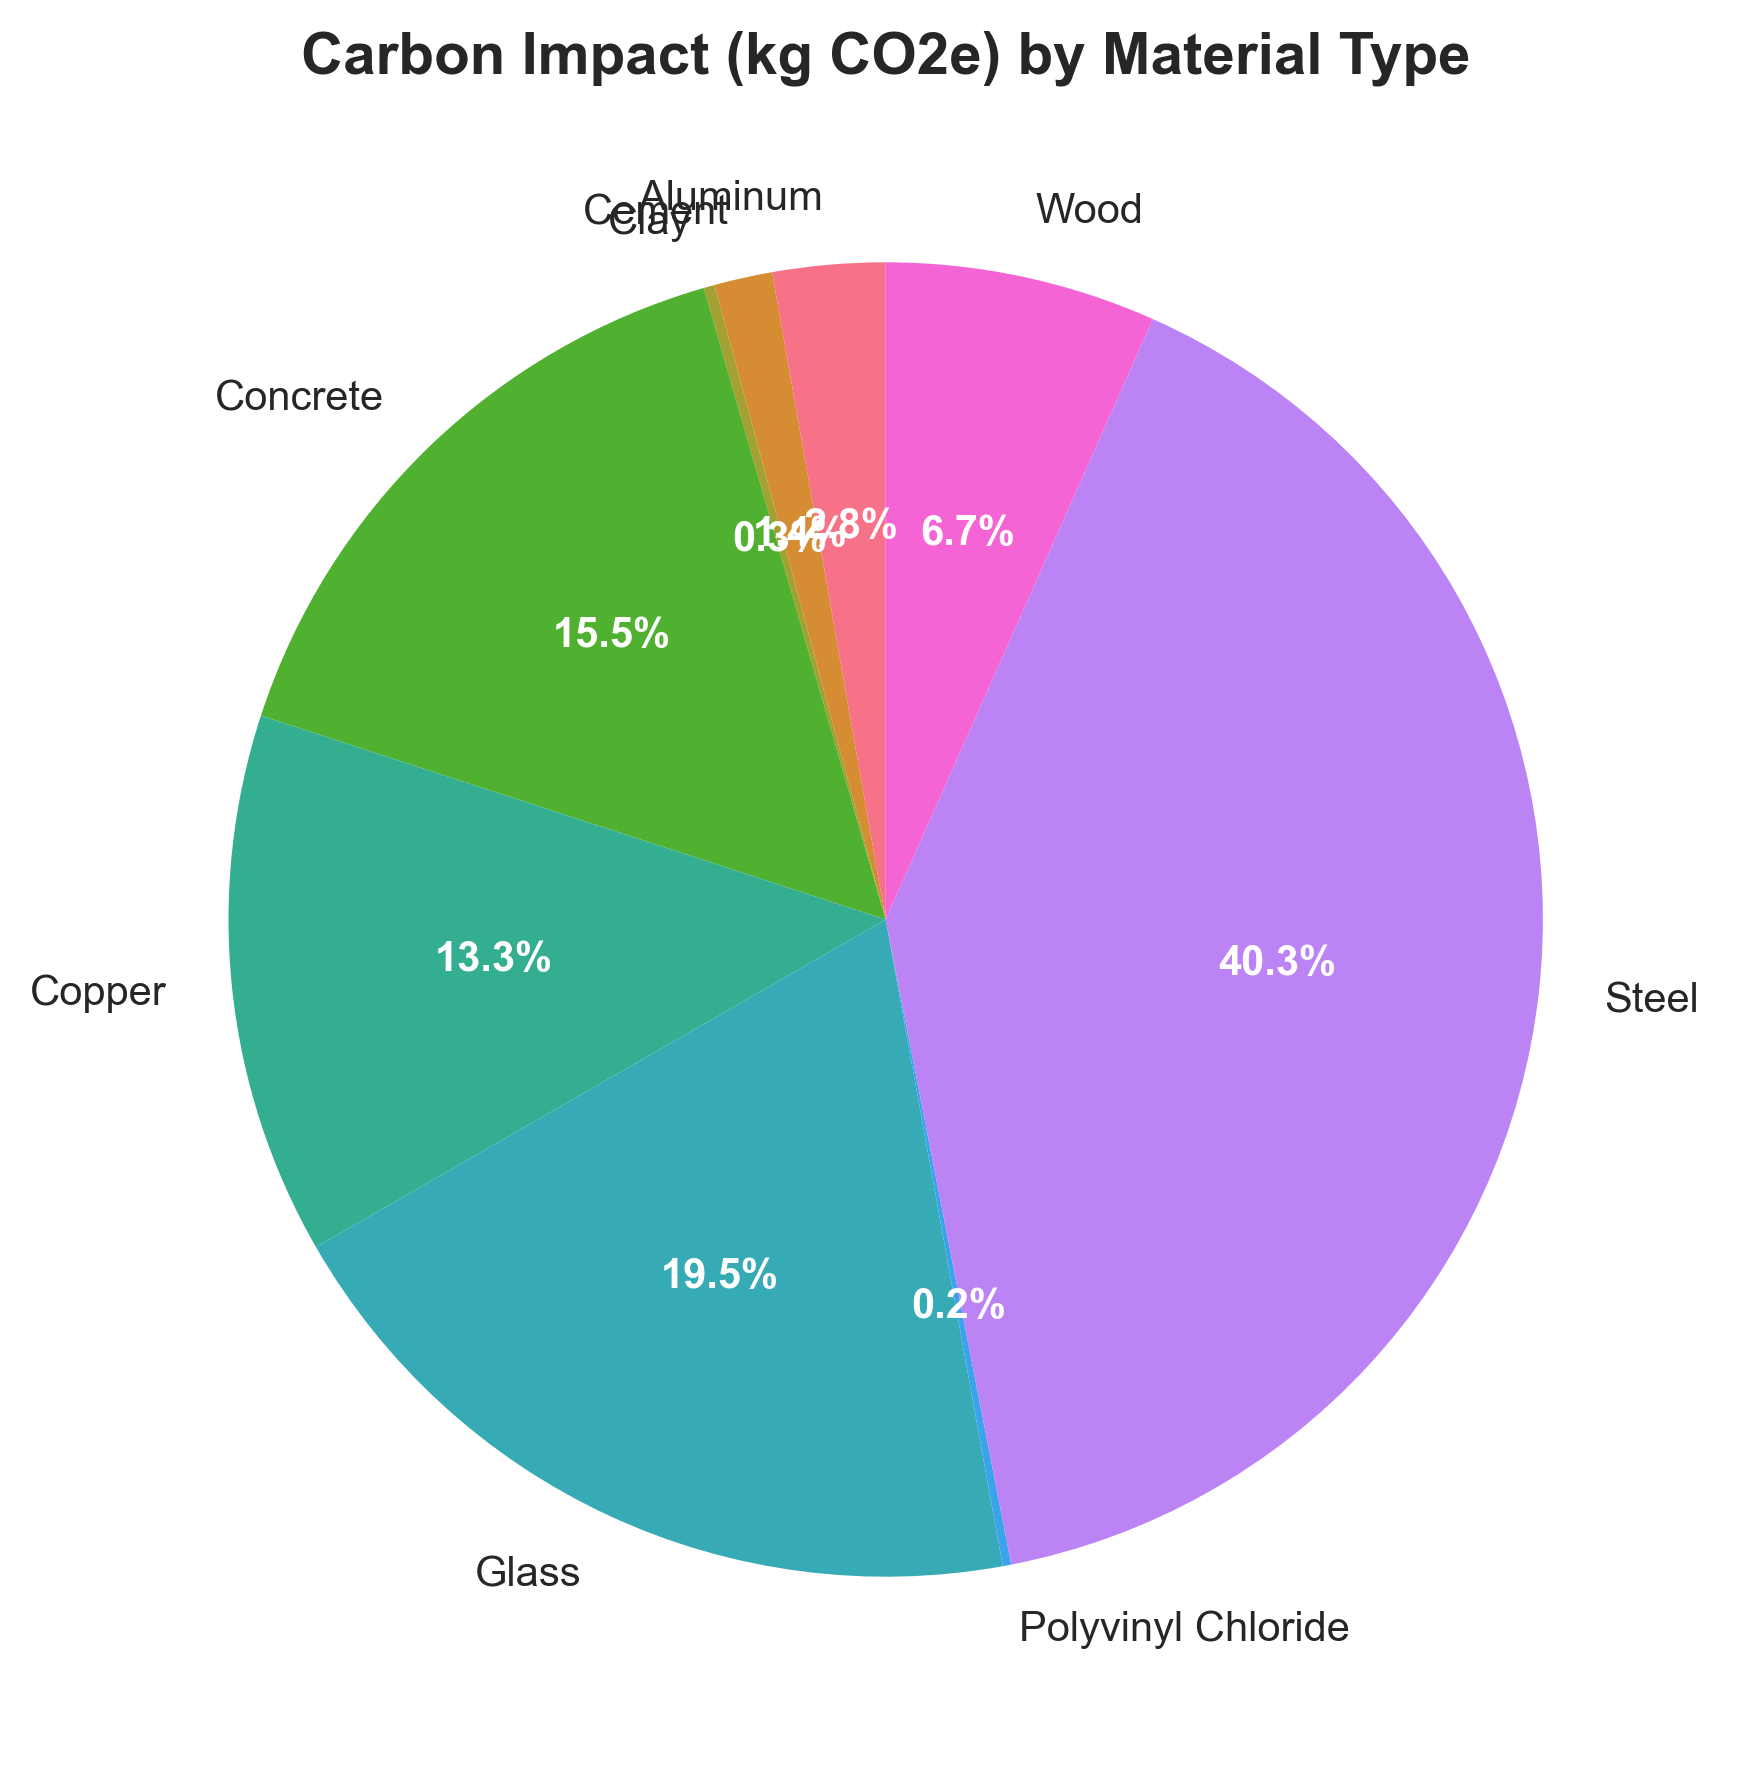
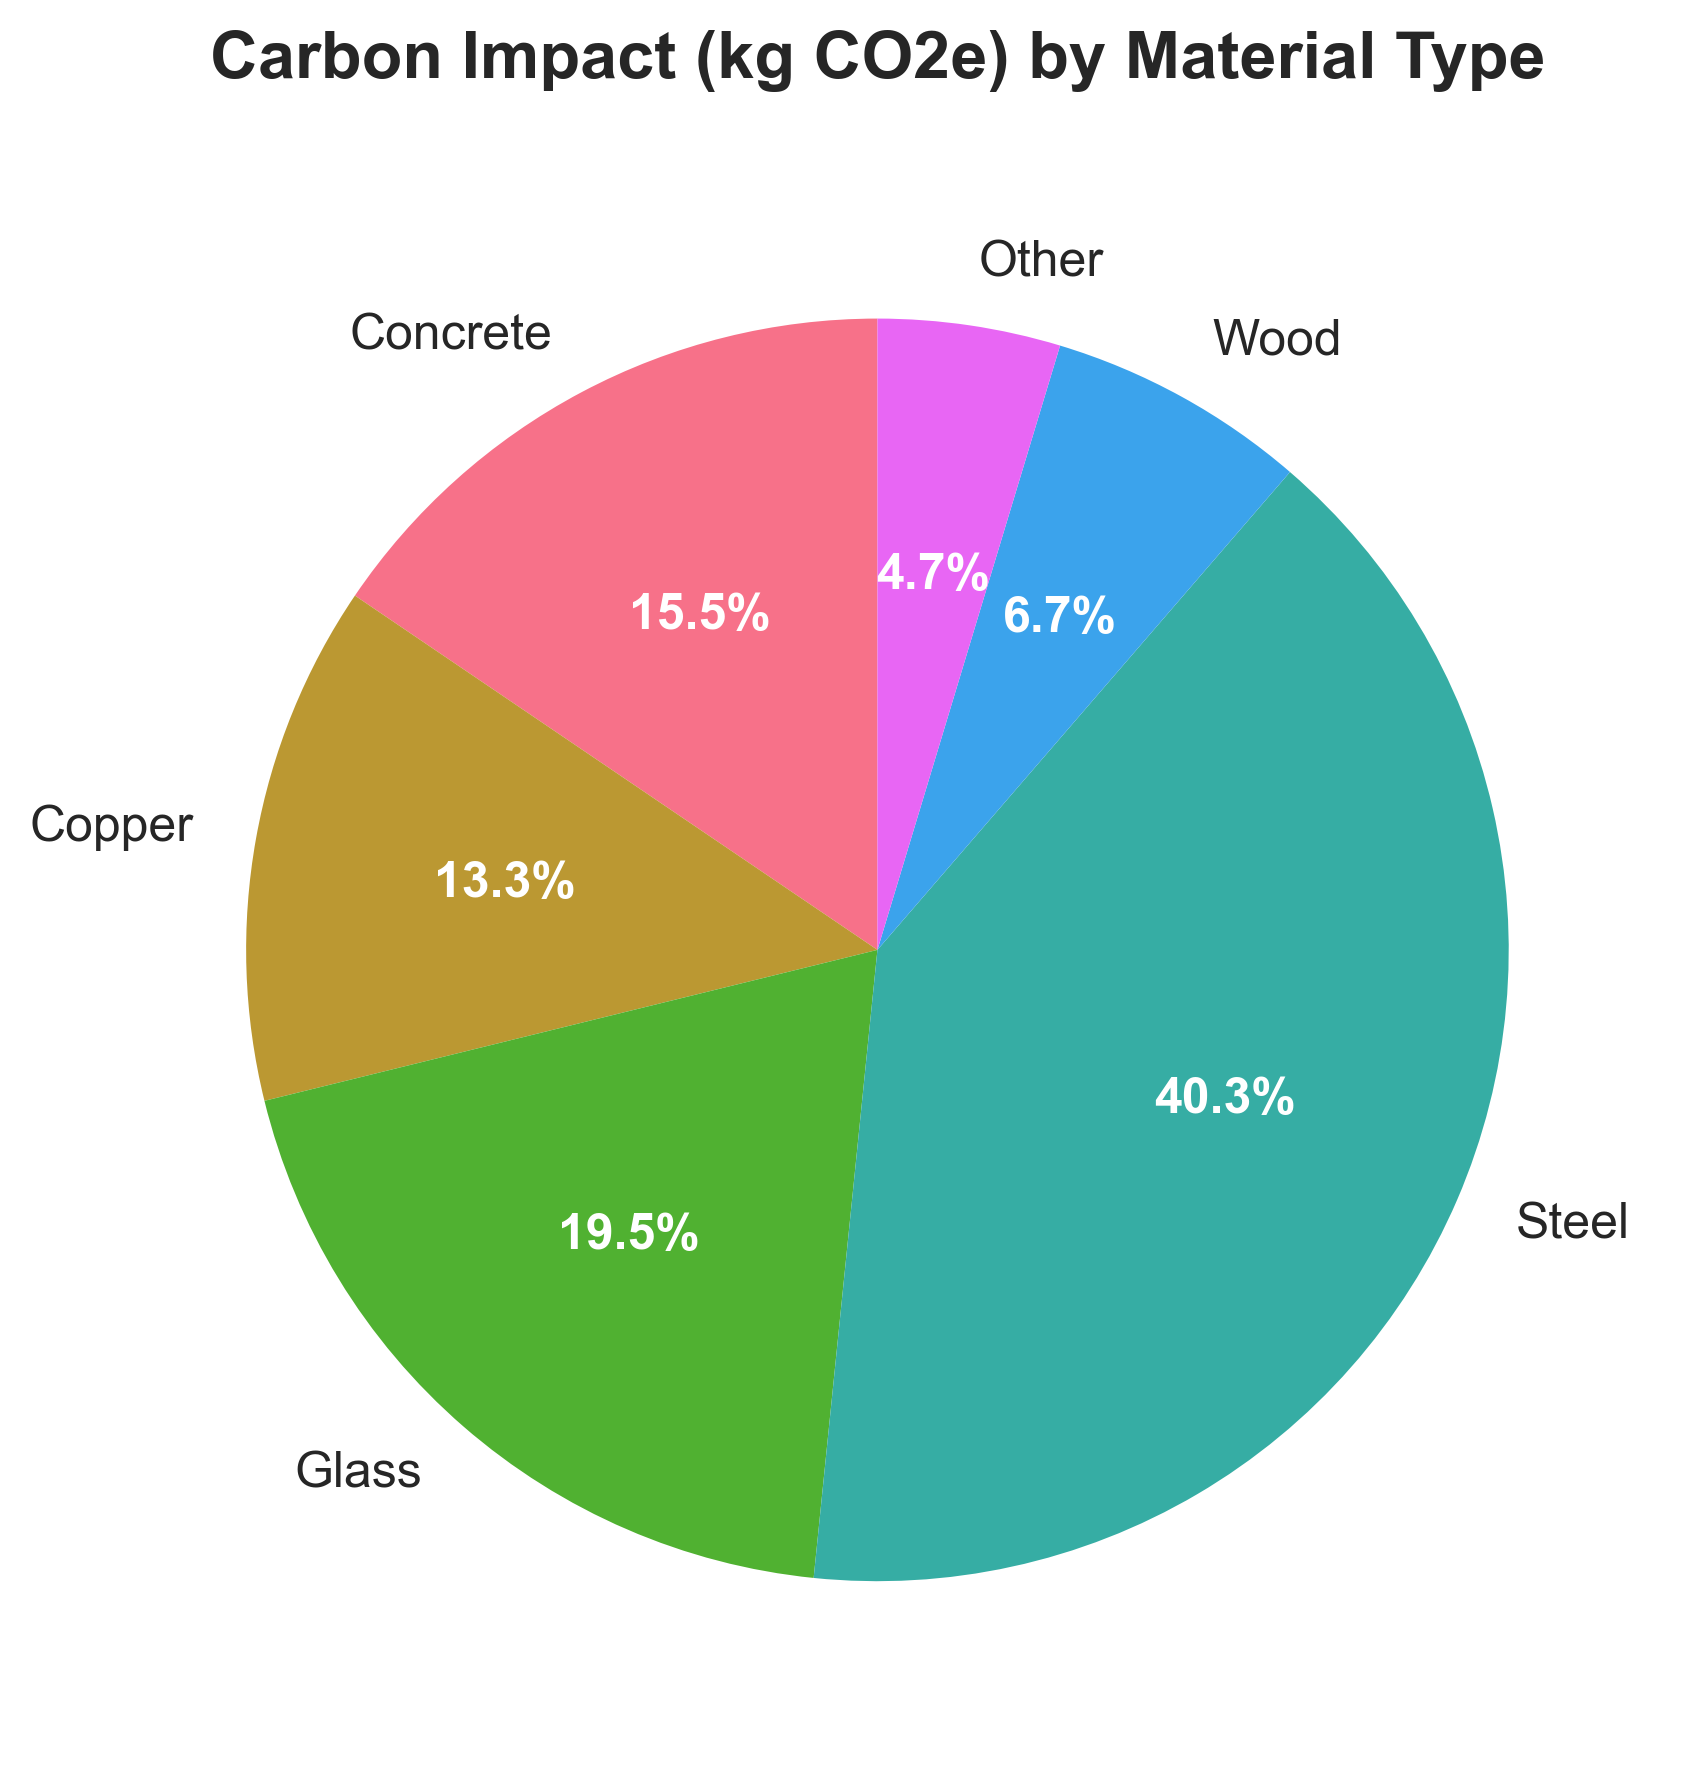
visualization.py: Fix pie chart label overlap by grouping small slices
-Fix: Prevent text and percentage labels from overlapping in pie charts by aggregating small data points into an "Other" category.
-Enhancement: Implement logic in `plot_impact_breakdown` to automatically group slices below a 3% threshold, improving chart readability.
-Enhancement: Adjust title padding and text properties to give the chart a cleaner, more professional appearance.
-New: Introduce a dynamic "Other" slice to gracefully handle datasets with numerous small contributors.

diff --git a/labs/final_project/src/visualization.py b/labs/final_project/src/visualization.py
@@ -69,6 +69,9 @@ class LCAVisualizer:
         """
         Create a pie chart showing impact breakdown by specified grouping.
         
+        This function now groups small slices into an "Other" category to prevent
+        text overlap and improve readability.
+        
         Args:
             data: DataFrame with impact data
             impact_type: Type of impact to plot
@@ -90,7 +93,7 @@ class LCAVisualizer:
             # Group and sum impacts
             impact_data = data.groupby(group_by)[impact_type].sum()
             
-            # Remove zero values
+            # Remove zero or negative values
             impact_data = impact_data[impact_data > 0]
             
             if impact_data.empty:
@@ -100,12 +103,28 @@ class LCAVisualizer:
                 ax.set_xlim(0, 1)
                 ax.set_ylim(0, 1)
             else:
-                colors = self._get_colors(len(impact_data))
-                wedges, texts, autotexts = ax.pie(impact_data.values, 
-                                                 labels=impact_data.index, 
+                # --- FIX START: Group small slices to prevent text overlap ---
+                threshold = 3.0  # Group slices smaller than 3% into "Other"
+                
+                # Calculate percentages to identify small slices
+                percentages = impact_data / impact_data.sum() * 100
+                small_slices = percentages < threshold
+                
+                plot_data = impact_data.copy()
+                # Check if there are small slices to group and that not ALL slices are small
+                if small_slices.any() and not small_slices.all():
+                    other_sum = plot_data[small_slices].sum()
+                    plot_data = plot_data[~small_slices]  # Keep large slices
+                    plot_data['Other'] = other_sum        # Add the 'Other' slice
+                # --- FIX END ---
+
+                colors = self._get_colors(len(plot_data))
+                wedges, texts, autotexts = ax.pie(plot_data, 
+                                                 labels=plot_data.index, 
                                                  autopct='%1.1f%%',
                                                  colors=colors,
-                                                 startangle=90)
+                                                 startangle=90,
+                                                 textprops={'fontsize': 12}) # Control font size
                 
                 # Improve text readability
                 for autotext in autotexts:
@@ -114,12 +133,12 @@ class LCAVisualizer:
             
             # Set title
             if title:
-                ax.set_title(title, fontsize=14, fontweight='bold')
+                ax.set_title(title, fontsize=16, fontweight='bold', pad=20)
             else:
                 impact_label = self.impact_labels.get(impact_type, impact_type)
                 group_label = group_by.replace('_', ' ').title()
                 ax.set_title(f'{impact_label} by {group_label}', 
-                           fontsize=14, fontweight='bold')
+                           fontsize=16, fontweight='bold', pad=20)
             
             plt.tight_layout()
             
